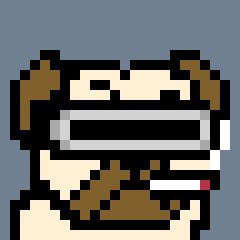
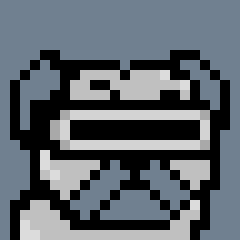
add test case

Changed region(s): [[0.0583, 0.4958, 0.9625, 1.0], [0.2917, 0.2333, 0.9333, 0.4667], [0.0583, 0.2333, 0.2625, 0.5542]]

diff --git a/converter/blueprint.py b/converter/blueprint.py
@@ -1,0 +1,66 @@
+import parser
+import numpy as np
+
+
+_BLUEPRINT_DIR = 'blueprints/'
+
+# Blueprints
+def glasses():
+    blueprint_dir = _BLUEPRINT_DIR + 'attributes/eyes/'
+    return blueprint_dir + 'vr.csv'    
+
+def mouth():
+    pass
+
+def face():
+    pass
+
+def head():
+    pass
+
+def background():
+    pass
+
+
+class Pug:
+    def __init__(self):
+        blueprint_dir = _BLUEPRINT_DIR + 'types/pug/'
+
+        self.__blueprints = {
+            'color_eye_right': blueprint_dir + 'color/eye_right.csv',
+            'color_eye_left': blueprint_dir + 'color/eye_left.csv',
+            'color_ear_right': blueprint_dir + 'color/ear_right.csv',
+            'color_ear_left': blueprint_dir + 'color/ear_left.csv',
+            'color_mouth': blueprint_dir + 'color/mouth.csv',
+            'color_face': blueprint_dir + 'color/face.csv',
+            'color_body': blueprint_dir + 'color/body.csv',
+            'shape_shape': blueprint_dir + 'shape/shape.csv',
+            'shape_eye': blueprint_dir + 'shape/eye.csv'      
+            #shapeからmouthの輪郭を取り除く
+            #shapeからeyeの輪郭を取り除く
+            #'shape_mouth': blueprint_dir + 'shape/mouth.csv'
+        }
+
+    @property
+    def blueprints(self):
+        return self.__blueprints
+
+    def add_blueprint(self, key, blueprint):
+        self.blueprints[key] = blueprint
+
+
+class AndroidPug(Pug):
+    def __init__(self):
+        super().__init__()
+        blueprint_dir = _BLUEPRINT_DIR + 'types/androidpug/'
+        self.blueprints.clear()
+        """
+        TODO:
+          - colorを作成する
+            - face, body, mouth, ear, eye, てかり
+        """
+        self.add_blueprint('face', blueprint_dir + 'androidpug.csv')
+        
+    def add_blueprint(self, key, blueprint):
+        super().add_blueprint(key, blueprint)
+

diff --git a/converter/painter.py b/converter/painter.py
@@ -1,0 +1,41 @@
+import numpy as np
+import parser
+
+PARETTO = {
+    235: (113, 179, 60),
+    236: (225, 105, 65),
+    237: (221, 160, 221),
+    238: (0, 215, 255),
+    239: (47, 255, 173),
+    240: (220, 220, 220),
+    241: (144, 128, 112),
+    242: (192, 192, 192),
+    243: (128, 128, 240),
+    244: (203, 192, 255),
+    245: (70, 53, 177),
+    246: (169, 169, 169),
+    247: (211, 211, 211),
+    248: (255, 0, 0),
+    249: (0, 0, 255),
+    250: (255, 255, 255),
+    251: (119, 191, 201),
+    252: (255, 149, 255),
+    253: (44, 96, 128),
+    254: (213, 239, 255),
+    255: (0, 0, 0)
+}
+
+# Painter
+def draw(width, height, blueprints, paretto):
+    canvas = np.zeros((height, width, 3))
+    canvas += (144, 128, 112)
+
+    for blueprint in blueprints.values():
+        f = parser.parse(blueprint)
+
+        for i in range(height):
+            for j in range(width):
+                if f.iloc[i][j] != 0:
+                    canvas[i,j] = paretto[f.iloc[i][j]]
+    return canvas
+

diff --git a/converter/gen.py b/converter/gen.py
@@ -1,15 +1,16 @@
 import cv2 as cv
 from PIL import Image
-from pug import Pug
+import blueprint
+import painter
 
 height = 24
 width = 24
 
 # generate image
-p = Pug(width, height)
-p.glasses()
-p.cigarret()
-canvas = p.get_canvas()
+#p = Pug()
+p = blueprint.AndroidPug()
+p.add_blueprint('glasses', blueprint.glasses())
+canvas = painter.draw(width, height, p.blueprints, painter.PARETTO)
 
 interpolation = cv.INTER_AREA
 canvas = cv.resize(canvas, None, 0, 10,10,interpolation)

diff --git a/converter/test_blueprint.py b/converter/test_blueprint.py
@@ -1,0 +1,18 @@
+import unittest
+from blueprint import Pug, AndroidPug
+
+class TestPugMethods(unittest.TestCase):
+    def test_pug(self):
+        p = Pug()
+        self.assertEqual(
+            'blueprints/types/pug/shape/shape.csv',
+            p.blueprints['shape']
+        )
+
+    def test_androidpug(self):
+        p = AndroidPug()
+        print(p.blueprints)
+
+
+if __name__ == '__main__':
+    unittest.main()

diff --git a/converter/test_painter.py b/converter/test_painter.py
@@ -1,0 +1,15 @@
+import unittest
+import painter
+
+
+class TestPainterMethod(unittest.TestCase):
+    def test_matrix(self):
+        width = 24
+        height = 24
+        blueprints = { 'shape': 'blueprints/types/pug/shape/shape.csv' }
+        out = painter.draw(width, height, blueprints, painter.PARETTO)
+        self.assertTupleEqual(out.shape, (24,24,3))
+
+
+if __name__ == '__main__':
+    unittest.main()
